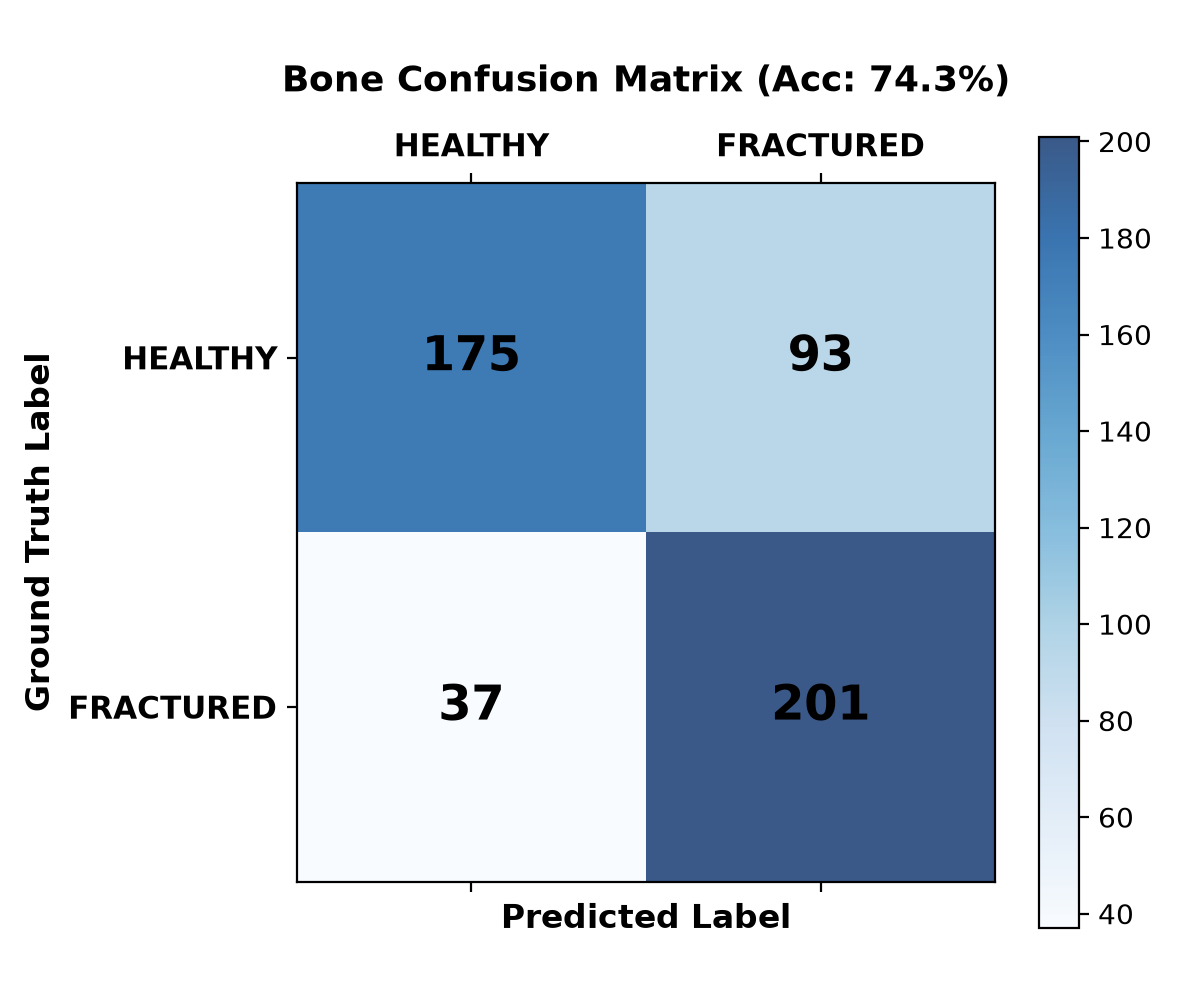
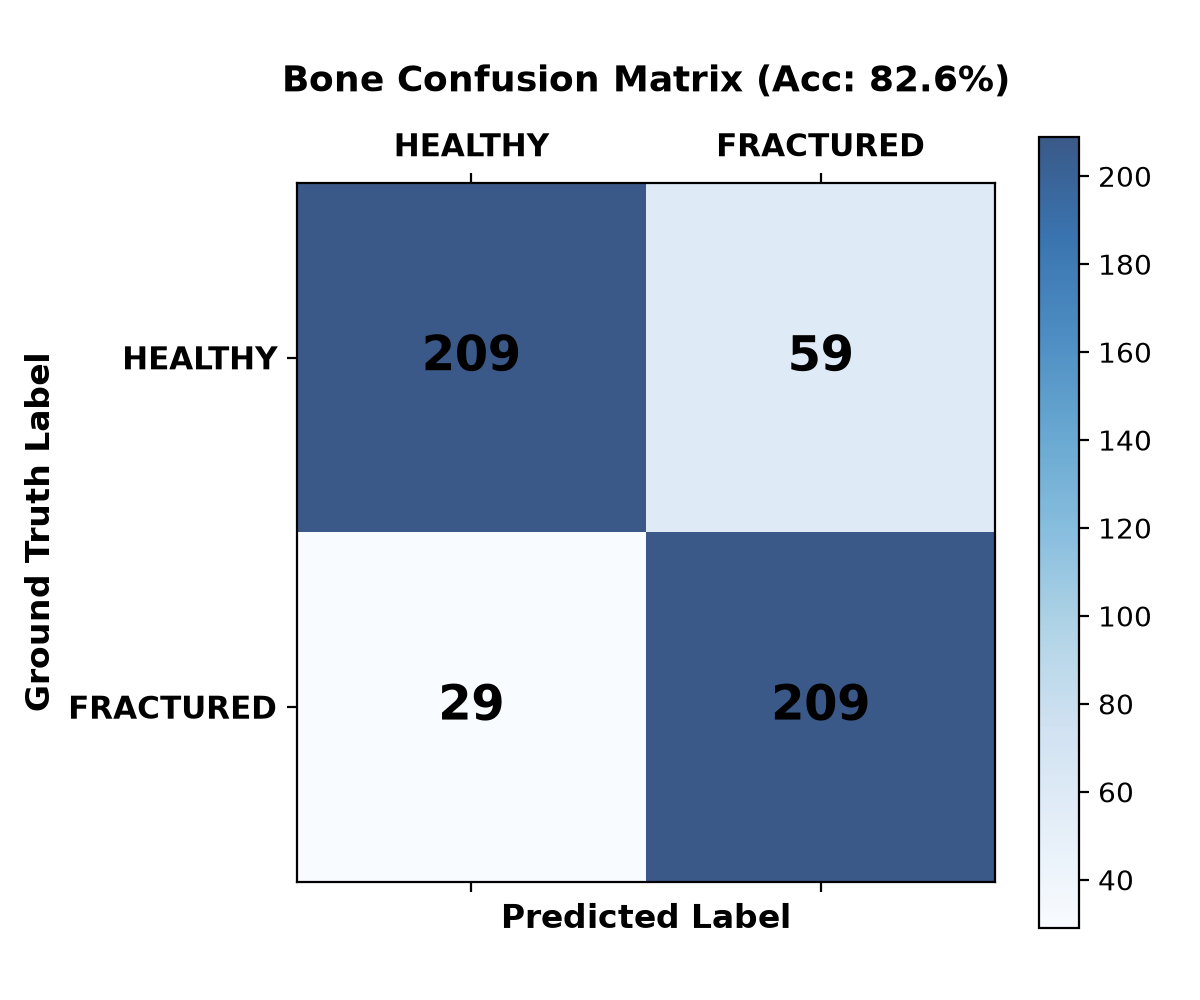
2 Phase of trainig the bone model

diff --git a/model/bone/train_bone.py b/model/bone/train_bone.py
@@ -1,18 +1,27 @@
 """
 train_bone.py
 -------------
-High-performance PyTorch transfer learning pipeline for Musculoskeletal Bone Fracture Detection.
-Trains a MobileNetV2 deep convolutional neural network on the real Kaggle Fracture Dataset.
-Includes:
-- Balanced sampling across Fractured and Not Fractured classes
-- Clinical augmentations for bone projection radiographs
+Scaled-Up Transfer Learning Pipeline for Musculoskeletal Bone Fracture Detection.
+Trains a MobileNetV2 deep convolutional neural network on the full Kaggle Fracture Dataset (9,246 radiographs).
+
+Features:
+- Scales to all 9,246 images or user-specified sample size
+- Real-time batch progress logging
+- Inverse class-frequency weighting & clinical augmentations
 - Cosine Annealing learning rate schedule
 - Best model persistence to model/bone/bone_fracture_model.pt
+- Automatically updates evaluation metrics and confusion matrix plots
+
+Usage:
+  python model/bone/train_bone.py                     # Trains on balanced 3,000 images (~15 min)
+  python model/bone/train_bone.py --all               # Trains on all 9,246 images
+  python model/bone/train_bone.py --samples 1500      # 3,000 total images
 """
 
 import os
 import sys
 import random
+import argparse
 import numpy as np
 from PIL import ImageFile
 ImageFile.LOAD_TRUNCATED_IMAGES = True
@@ -32,18 +41,18 @@ VAL_DIR = os.path.join(DATASET_DIR, "val")
 TEST_DIR = os.path.join(DATASET_DIR, "test")
 EXPORT_MODEL_PATH = os.path.join(CURRENT_DIR, "bone_fracture_model.pt")
 
-def train_bone_model(epochs: int = 4, batch_size: int = 16, lr: float = 3e-4, samples_per_class: int = 400):
-    print("=" * 65)
-    print("       RadiVision AI: Bone Fracture Transfer Learning Engine")
-    print("=" * 65)
+def train_bone_model(epochs: int = 3, batch_size: int = 24, lr: float = 2.5e-4, samples_per_class: int = 1500, use_all: bool = False):
+    print("=" * 68)
+    print("       RadiVision AI: Scaled-Up Bone Fracture Transfer Learning Engine")
+    print("=" * 68)
 
     if not os.path.exists(TRAIN_DIR):
         print(f"[Error] Dataset directory not found at: {TRAIN_DIR}")
         return
 
     device = torch.device("cuda" if torch.cuda.is_available() else "cpu")
-    print(f"Compute Device: {device}")
-    print(f"Dataset Path  : {DATASET_DIR}")
+    print(f"Compute Device : {device}")
+    print(f"Dataset Path   : {DATASET_DIR}")
 
     # Clinical Radiograph Data Augmentation
     data_transforms = {
@@ -52,11 +61,6 @@ def train_bone_model(epochs: int = 4, batch_size: int = 16, lr: float = 3e-4, sa
             transforms.RandomRotation(15),
             transforms.RandomHorizontalFlip(),
             transforms.ColorJitter(brightness=0.1, contrast=0.1),
-            transforms.ToTensor(),
-            transforms.Normalize([0.485, 0.456, 0.406], [0.229, 0.224, 0.225])
-        ]),
-        'val': transforms.Compose([
-            transforms.Resize((224, 224)),
             transforms.ToTensor(),
             transforms.Normalize([0.485, 0.456, 0.406], [0.229, 0.224, 0.225])
         ]),
@@ -71,32 +75,39 @@ def train_bone_model(epochs: int = 4, batch_size: int = 16, lr: float = 3e-4, sa
     test_dataset = datasets.ImageFolder(TEST_DIR, data_transforms['test'])
 
     classes = full_train_dataset.classes
-    print(f"Detected Classes: {classes}")  # ['fractured', 'not fractured']
+    print(f"Detected Classes: {classes}")
 
-    # Curate a balanced, representative subset for fast CPU training
+    class_counts = [0, 0]
     class_indices = {0: [], 1: []}
     for idx, (_, label) in enumerate(full_train_dataset.samples):
+        class_counts[label] += 1
         class_indices[label].append(idx)
 
-    random.seed(42)
-    selected_indices = []
-    for label in [0, 1]:
-        available = class_indices[label]
-        sample_count = min(samples_per_class, len(available))
-        selected_indices.extend(random.sample(available, sample_count))
-        print(f"  Class '{classes[label]}' (Index {label}): {sample_count} training samples selected")
+    print(f"Total Available in Train: Fractured={class_counts[0]}, Healthy={class_counts[1]} (Total: {len(full_train_dataset)})")
 
-    train_dataset = Subset(full_train_dataset, selected_indices)
-    print(f"Total Balanced Training Samples: {len(train_dataset)}")
-    print(f"Total Test Validation Samples  : {len(test_dataset)}")
+    if use_all or samples_per_class is None:
+        train_dataset = full_train_dataset
+        print(f"Training on ALL {len(train_dataset)} available clinical radiographs.")
+    else:
+        random.seed(42)
+        selected_indices = []
+        for label in [0, 1]:
+            available = class_indices[label]
+            cnt = min(samples_per_class, len(available))
+            selected_indices.extend(random.sample(available, cnt))
+            print(f"  Class '{classes[label]}': {cnt} training samples selected")
+        train_dataset = Subset(full_train_dataset, selected_indices)
+        print(f"Total Selected Training Samples: {len(train_dataset)}")
+
+    print(f"Total Test Validation Radiographs: {len(test_dataset)}")
 
     train_loader = DataLoader(train_dataset, batch_size=batch_size, shuffle=True, num_workers=0)
     test_loader = DataLoader(test_dataset, batch_size=batch_size, shuffle=False, num_workers=0)
 
-    # Load MobileNetV2 pretrained on ImageNet
+    # Pretrained MobileNetV2
     model = models.mobilenet_v2(weights=models.MobileNet_V2_Weights.DEFAULT)
 
-    # Freeze base feature extractor, fine-tune top layers
+    # Fine-tune the top 4 convolutional blocks
     for param in model.features[:-4].parameters():
         param.requires_grad = False
     for param in model.features[-4:].parameters():
@@ -121,7 +132,9 @@ def train_bone_model(epochs: int = 4, batch_size: int = 16, lr: float = 3e-4, sa
     scheduler = optim.lr_scheduler.CosineAnnealingLR(optimizer, T_max=epochs)
 
     best_acc = 0.0
-    print(f"\nStarting training for {epochs} epochs...")
+    total_batches = len(train_loader)
+    print(f"\nStarting Scaled Training ({epochs} Epochs, {total_batches} batches/epoch)...")
+    print("-" * 68)
 
     for epoch in range(epochs):
         model.train()
@@ -129,7 +142,7 @@ def train_bone_model(epochs: int = 4, batch_size: int = 16, lr: float = 3e-4, sa
         train_corrects = 0
         train_total = 0
 
-        for inputs, labels in train_loader:
+        for batch_idx, (inputs, labels) in enumerate(train_loader, 1):
             inputs, labels = inputs.to(device), labels.to(device)
             optimizer.zero_grad()
             outputs = model(inputs)
@@ -142,11 +155,18 @@ def train_bone_model(epochs: int = 4, batch_size: int = 16, lr: float = 3e-4, sa
             train_corrects += torch.sum(preds == labels.data).item()
             train_total += labels.size(0)
 
+            # Periodic batch progress logging
+            if batch_idx % max(1, total_batches // 5) == 0 or batch_idx == total_batches:
+                pct = (batch_idx / total_batches) * 100.0
+                curr_acc = (train_corrects / train_total) * 100.0
+                curr_loss = running_loss / train_total
+                print(f"  Epoch [{epoch+1:02d}/{epochs:02d}] Batch [{batch_idx:03d}/{total_batches:03d}] ({pct:5.1f}%) | Train Loss: {curr_loss:.4f} | Running Acc: {curr_acc:.2f}%")
+
         scheduler.step()
         train_loss = running_loss / train_total
         train_acc = (train_corrects / train_total) * 100.0
 
-        # Validate on full independent test set
+        # Validate on full 506 test radiographs
         model.eval()
         val_corrects = 0
         val_total = 0
@@ -159,15 +179,37 @@ def train_bone_model(epochs: int = 4, batch_size: int = 16, lr: float = 3e-4, sa
                 val_total += labels.size(0)
 
         val_acc = (val_corrects / val_total) * 100.0 if val_total else 0.0
-        print(f"Epoch [{epoch+1:02d}/{epochs:02d}] Train Loss: {train_loss:.4f} | Train Acc: {train_acc:.2f}% | Test Acc: {val_acc:.2f}%")
+        print(f"--> [Epoch {epoch+1:02d} Summary] Train Loss: {train_loss:.4f} | Train Acc: {train_acc:.2f}% | Test Acc: {val_acc:.2f}%")
 
         if val_acc > best_acc:
             best_acc = val_acc
             torch.save(model.state_dict(), EXPORT_MODEL_PATH)
-            print(f"  --> Checkpoint saved! (New Best Test Accuracy: {best_acc:.2f}%)")
+            print(f"  >>> Checkpoint Saved! (New Best Test Accuracy: {best_acc:.2f}%)")
+        print("-" * 68)
 
-    print(f"\n[Success] Training completed. Best model exported to:\n  {EXPORT_MODEL_PATH}")
-    print(f"Highest Test Accuracy achieved: {best_acc:.2f}%")
+    print(f"\n[Success] Scaled training completed!")
+    print(f"Best Test Accuracy achieved: {best_acc:.2f}%")
+    print(f"Model exported to: {EXPORT_MODEL_PATH}")
+
+    # Automatically re-run evaluation
+    try:
+        from model.bone.evaluate_bone import evaluate_bone
+        print("\nUpdating clinical performance report & confusion matrix plots...")
+        evaluate_bone()
+    except Exception as ee:
+        print(f"[Notice] Could not auto-run evaluate_bone: {ee}")
 
 if __name__ == "__main__":
-    train_bone_model()
+    parser = argparse.ArgumentParser(description="Train Bone Fracture Deep Learning Model")
+    parser.add_argument("--epochs", type=int, default=3, help="Number of training epochs (default: 3)")
+    parser.add_argument("--batch-size", type=int, default=24, help="Batch size (default: 24)")
+    parser.add_argument("--samples", type=int, default=1500, help="Samples per class (default: 1500, total 3000)")
+    parser.add_argument("--all", action="store_true", help="Train on ALL 9,246 images in the dataset")
+    args = parser.parse_args()
+
+    train_bone_model(
+        epochs=args.epochs,
+        batch_size=args.batch_size,
+        samples_per_class=args.samples,
+        use_all=args.all
+    )
